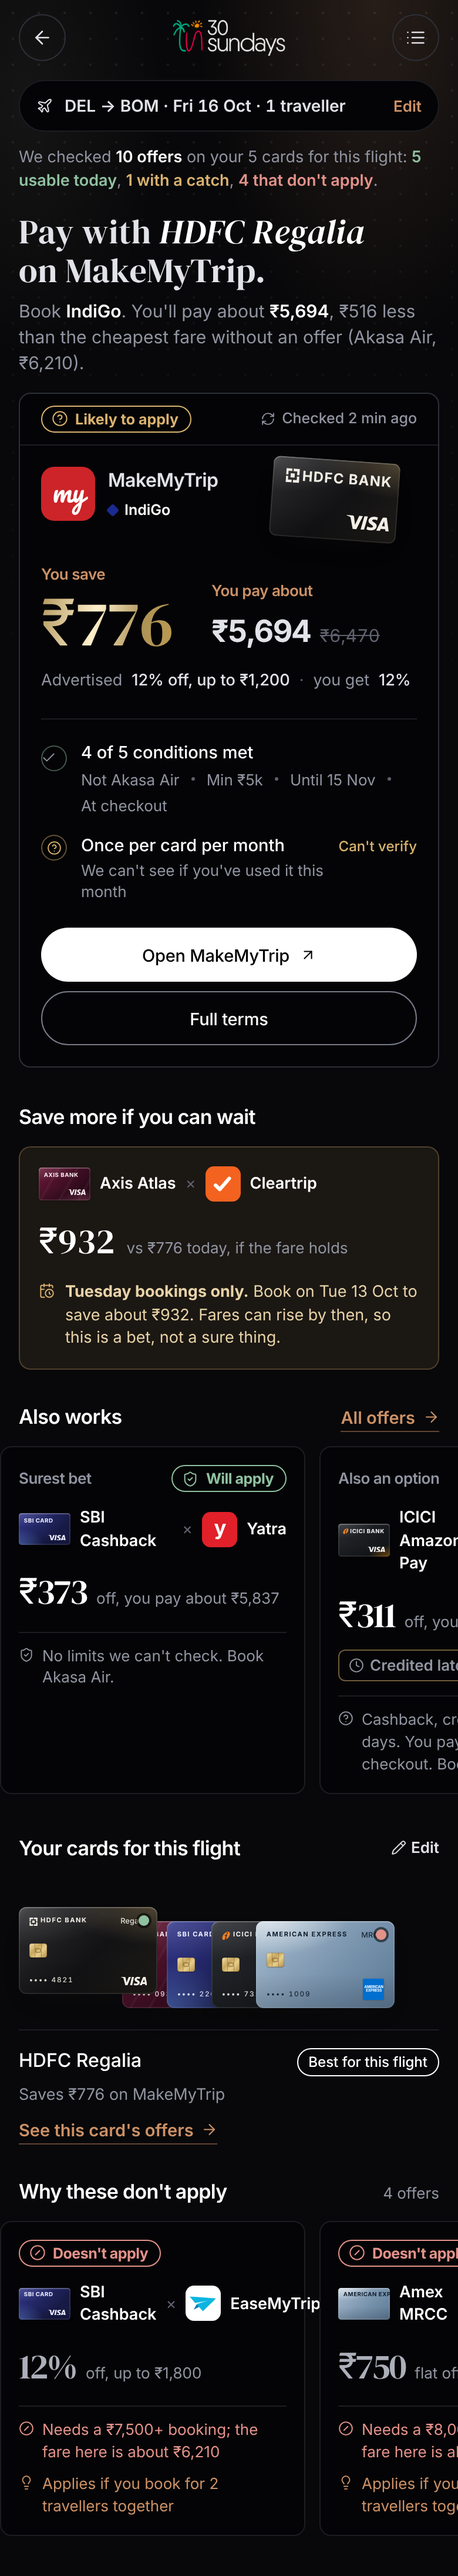
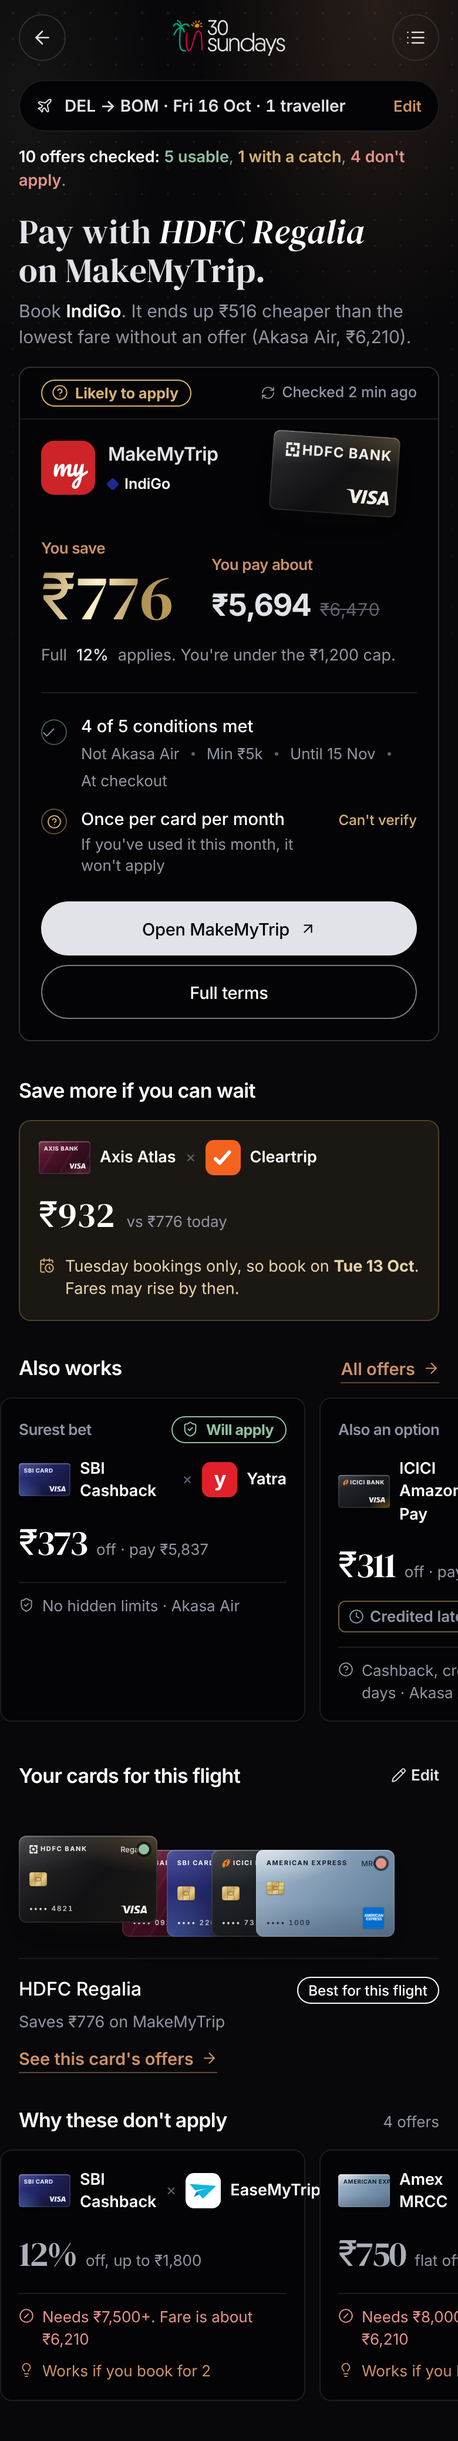
Copy pass: say each fact once
- Results: one-line offer summary; verdict sub no longer repeats the
  price on the card; visual panel drops route and 'pay with' repeats;
  advertised-vs-actual only states what differs (cap or flat)
- Conditions: consequence-first details ('If you've used it this month,
  it won't apply'); shorter blockers ('Needs ₹7,500+. Fare is about ₹6,210')
- Catch, also-works and miss cards trimmed; miss chip hidden when the
  section heading already says it
- No-offer state stated once, with a direct next step
- Landing, ad, route, detail fine print and handoff note tightened

Claude-Session: https://claude.ai/code/session_01FAECn6cwsfefBXgEwP77EW

diff --git a/prototype/cardpick.html b/prototype/cardpick.html
@@ -1186,7 +1186,7 @@ function evaluate(o, r, fares){
   if (o.min) {
     const ok = best && best.saving > 0;
     conds.push({ sh: `Min ${k(o.min)}`, s: ok ? "pass" : "fail", t: `Minimum booking ${inr(o.min)}`, d: ok ? `Your fare is about ${inr(best.fare)}${r.pax > 1 ? ` for ${r.pax}` : ""}` : `Fares on this route are about ${inr(allowed.length ? Math.min(...fares.filter(f => allowed.includes(f.air)).map(f => f.fare)) : cheapest)}` });
-    if (!ok && allowed.length && !o.intl) fails.push(`Needs a ${inr(o.min)}+ booking; the fare here is about ${inr(Math.min(...fares.filter(f => allowed.includes(f.air)).map(f => f.fare)))}`);
+    if (!ok && allowed.length && !o.intl) fails.push(`Needs ${inr(o.min)}+. Fare is about ${inr(Math.min(...fares.filter(f => allowed.includes(f.air)).map(f => f.fare)))}`);
   }
   // booking days
   if (o.bookDays) {
@@ -1200,9 +1200,9 @@ function evaluate(o, r, fares){
   // EMI
   if (o.emi) { conds.push({ s: "choice", t: "Only if you pay in EMI", d: `3+ month EMI. The ${inr(o.emiFee)} fee is already deducted` }); cert *= CERT.emi; }
   // monthly cap
-  if (o.monthly) { conds.push({ s: "unknown", t: "Once per card per month", d: "We can't see if you've used it this month" }); cert *= CERT.monthly; }
+  if (o.monthly) { conds.push({ s: "unknown", t: "Once per card per month", d: "If you've used it this month, it won't apply" }); cert *= CERT.monthly; }
   // new users
-  if (o.newUser) { conds.push({ s: "unknown", t: `First booking on ${OTAS[o.ota].name} only`, d: "Most people with an account won't qualify" }); cert *= CERT.newUser; }
+  if (o.newUser) { conds.push({ s: "unknown", t: `First booking on ${OTAS[o.ota].name} only`, d: "Won't apply if you've booked there before" }); cert *= CERT.newUser; }
   // payout
   if (o.kind === "cashback") { conds.push({ s: "unknown", t: `Cashback, credited in about ${o.creditDays} days`, d: "You pay the full fare at checkout" }); cert *= CERT.cashback; }
   else conds.push({ sh: "At checkout", s: "pass", t: "Discount at checkout", d: o.code ? `Code ${o.code}, usually applied for you` : "Applied when you pay with the card" });
@@ -1215,13 +1215,13 @@ function evaluate(o, r, fares){
   else if (catchDay) status = "catch";
   else if (net >= cheapest - 50) status = "notworth";
   else status = "use";
-  if (status === "notworth") fails.push(`Saves ${inr(saving)}, but only on ${AIRLINES[best.air].name}. You'd still pay more than the cheapest fare (${inr(cheapest)})`);
+  if (status === "notworth") fails.push(`Saves ${inr(saving)} on ${AIRLINES[best.air].name}, but you'd still pay more than the cheapest fare`);
   // unlock hints, so a miss is still useful
   let unlock = null;
   if (status === "blocked" && o.min && !o.intl && allowed.length && topFare && fails.length === 1 && fails[0].startsWith("Needs")) {
     const per = Math.min(...fares.filter(f => allowed.includes(f.air)).map(f => f.fare)) / r.pax;
     const need = Math.ceil(o.min / per);
-    if (need >= 2 && need <= 4 && need !== r.pax) unlock = `Applies if you book for ${need} travellers together`;
+    if (need >= 2 && need <= 4 && need !== r.pax) unlock = `Works if you book for ${need}`;
   }
   if (status === "catch") { unlock = `Book on ${fmtDay(catchDay)} to save about ${inr(saving)}`; fails.push(`${dayRange(o.bookDays)}. Today is ${DAYL[TODAY.getDay()]}`); }
   return { o, status, air: best && best.air, fare: best ? best.fare : cheapest, saving, net, cert, expNet: (best ? best.fare : cheapest) - saving * cert, conds, fails, unlock, catchDay };
@@ -1379,7 +1379,7 @@ SCREENS.ad = {
       <div class="ig-media">
         <div class="ad-copy">
           <h2>5 cards.<br><em>Which one</em> should you actually use?</h2>
-          <p>We check the fine print on your cards for your flight, and tell you what you'll actually save.</p>
+          <p>Tell us your flight. We'll tell you which card saves you the most.</p>
         </div>
         <div class="ad-vis">
           <div class="ad-otas" aria-label="Checks MakeMyTrip, Cleartrip, EaseMyTrip and Yatra">${["mmt","ct","emt","yt"].map(o => otaHTML(o)).join("")}</div>
@@ -1389,7 +1389,7 @@ SCREENS.ad = {
       </div>
       <button class="ig-cta" type="button" data-action="ad-cta">Find my best offer ${icon("arrow-right")}</button>
       <div class="ig-icons">${icon("heart")}${icon("message-circle")}${icon("send")}<span>${icon("bookmark")}</span></div>
-      <p class="ig-cap"><b>30sundays</b> Your cards have flight offers on them. Tell us your route and we'll show what you'll actually save, fine print included.</p>
+      <p class="ig-cap"><b>30sundays</b> Most flight offers sit on cards you already own.</p>
     </article>
   </div>`,
   mount(el){
@@ -1415,9 +1415,8 @@ SCREENS.landing = {
     <nav class="bar">${brand()}<button class="btn ghost sm" type="button" data-action="landing-cta">Check a flight</button></nav>
     <section class="land-hero">
       <div>
-        <div class="label">Your cards. Your flight. One honest answer.</div>
         <h1 style="margin-top:14px">Which card should you pay with for this flight?</h1>
-        <p class="sub">Tell us your route and your cards. We read the fine print and show what you'll actually save, or tell you when nothing applies.</p>
+        <p class="sub">We read every offer's fine print and show what you'll actually save. If nothing applies, we say so.</p>
         <div class="land-cta">
           <button class="btn" type="button" data-action="landing-cta">Check a flight ${icon("arrow-right")}</button>
           <span class="reassure">${icon("shield-check")} No card number. No CVV. No payment information.</span>
@@ -1588,11 +1587,11 @@ SCREENS.route = {
         <button type="button" class="iconbtn" data-action="pax" data-d="-1" aria-label="Fewer travellers">${icon("minus")}</button>
         <b id="paxN" class="num">${r.pax}</b>
         <button type="button" class="iconbtn" data-action="pax" data-d="1" aria-label="More travellers">${icon("plus")}</button>
-        <small>Minimum spends count the whole booking, so this matters.</small>
+        <small>Offer minimums count the whole booking.</small>
       </div>
       <div class="rt-cta">
         <button class="btn block" type="button" data-action="route-go">${state.wallet.length ? `Check my ${state.wallet.length} cards for this flight` : "Next: pick your cards"} ${icon("arrow-right")}</button>
-        ${state.wallet.length ? `<button class="link" type="button" data-action="go-add" style="margin-top:14px">Using your ${state.wallet.length} saved cards. Edit</button>` : ""}
+        ${state.wallet.length ? `<button class="link" type="button" data-action="go-add" style="margin-top:14px">Edit cards</button>` : ""}
       </div>
     </div>`;
   },
@@ -1684,7 +1683,7 @@ SCREENS.home = {
     return `<div class="wrap-wide">
       <nav class="bar"><button class="iconbtn" type="button" data-action="edit-route" aria-label="Change flight">${icon("arrow-left")}</button>${brand()}<button class="iconbtn" type="button" data-action="all-offers" aria-label="All offers">${icon("list")}</button></nav>
       <button type="button" class="route-pill" data-action="edit-route">${icon("plane")}<span>${routeLine(res.r)}</span><b>Edit</b></button>
-      <p class="scan">We checked <b>${n} offer${n === 1 ? "" : "s"}</b> on your ${state.wallet.length} cards for this flight: <span class="s-use">${cnt(["use"])} usable today</span>, <span class="s-catch">${cnt(["catch"])} with a catch</span>, <span class="s-no">${cnt(["blocked","notworth"])} that don't apply</span>.</p>
+      ${res.none ? "" : `<p class="scan"><b>${n} offer${n === 1 ? "" : "s"} checked:</b> <span class="s-use">${cnt(["use"])} usable</span>, <span class="s-catch">${cnt(["catch"])} with a catch</span>, <span class="s-no">${cnt(["blocked","notworth"])} don't apply</span>.</p>`}
       ${res.none ? noneHTML(res) : verdictHTML(res)}
     </div>`;
   },
@@ -1721,7 +1720,7 @@ function recCardHTML(e, res, opts){
         <div class="pay-save"><span class="k">You save</span><span class="big">${inr(e.saving)}</span></div>
         <div class="pay-net"><span class="k">You pay about</span><b>${inr(e.net)}</b><s>${inr(e.fare)}</s></div>
       </div>
-      <p class="adv-line">Advertised <b>${banner(o)}</b><span aria-hidden="true">\u00B7</span>you get <b>${o.kind === "flat" ? inr(e.saving) : pctOf + "%"}</b>${o.kind === "cashback" ? ", paid back later" : ""}</p>
+      <p class="adv-line">${o.kind === "flat" ? `Flat <b>${inr(o.flat)}</b> off` : capped ? `Advertised <b>${o.pct}%</b>, but the ${inr(o.cap)} cap means you get <b>${pctOf}%</b>` : `Full <b>${o.pct}%</b> applies. You're under the ${inr(o.cap)} cap`}${o.kind === "cashback" ? ", paid back later" : ""}.</p>
       ${checksHTML(e)}
       ${opts.noActions ? "" : `<div class="rec-actions">
         <button class="btn" type="button" data-action="use" data-id="${o.id}">Open ${OTAS[o.ota].name} ${icon("arrow-up-right")}</button>
@@ -1730,9 +1729,7 @@ function recCardHTML(e, res, opts){
      </div>
      <aside class="rec-visual" style="--cbg:${C[o.card].bg}" aria-hidden="true">
       <span class="rv-glow"></span><span class="rv-cat">${icon("plane")}</span>
-      <div class="rv-top"><span>${icon("plane-takeoff")} ${routeLabel(res.r)}</span><span>${fmtDay(res.r.date)}</span></div>
       <div class="rv-stage" data-tilt>${cardHTML(o.card)}${otaHTML(o.ota)}</div>
-      <div class="rv-cap"><span>Pay with</span><b>${C[o.card].bank} ${C[o.card].name}</b><span>on ${OTAS[o.ota].name}, booking ${AIRLINES[e.air].name}</span></div>
      </aside>
     </div>
   </article>`;
@@ -1743,7 +1740,7 @@ function verdictHTML(res){
   return `<div class="res-grid">
     <section class="g-main">
       <h1 class="v-h">Pay with <b>${cardFull(o.card)}</b> on ${OTAS[o.ota].name}.</h1>
-      <p class="v-sub">Book <b>${AIRLINES[e.air].name}</b>. You'll pay about <b>${inr(e.net)}</b>, ${inr(vsCheapest)} less than the cheapest fare without an offer (${AIRLINES[res.cheapest.air].name}, ${inr(res.cheapest.fare)}).</p>
+      <p class="v-sub">Book <b>${AIRLINES[e.air].name}</b>. ${res.cheapest.air === e.air ? `It's already the cheapest fare, and this takes ${inr(vsCheapest)} off.` : `It ends up ${inr(vsCheapest)} cheaper than the lowest fare without an offer (${AIRLINES[res.cheapest.air].name}, ${inr(res.cheapest.fare)}).`}</p>
       ${recCardHTML(e, res)}
     </section>
     ${res.catchBest ? catchHTML(res) : ""}
@@ -1759,8 +1756,8 @@ function catchHTML(res){
     <div class="sec-h"><h3>Save more if you can wait</h3></div>
     <button type="button" class="catchc" data-action="open-offer" data-id="${e.o.id}">
       ${pairHTML(e.o)}
-      <span class="catch-v"><b>${inr(e.saving)}</b><span>vs ${inr(res.rec.saving)} today, if the fare holds</span></span>
-      <span class="catch-line">${icon("calendar-clock")}<span><b>${dayRange(e.o.bookDays)}.</b> ${e.unlock}. Fares can rise by then, so this is a bet, not a sure thing.</span></span>
+      <span class="catch-v"><b>${inr(e.saving)}</b><span>vs ${inr(res.rec.saving)} today</span></span>
+      <span class="catch-line">${icon("calendar-clock")}<span>${dayRange(e.o.bookDays)}, so book on <b>${fmtDay(e.catchDay)}</b>. Fares may rise by then.</span></span>
     </button>
   </section>`;
 }
@@ -1774,8 +1771,8 @@ function alsoHTML(res){
       return `<button type="button" class="alt" data-action="open-offer" data-id="${o.id}">
         <span class="alt-k"><span>${role}</span>${certChip(e)}</span>
         ${pairHTML(o)}
-        <span class="alt-v"><b>${inr(e.saving)}</b><span>off, you pay about ${inr(e.net)}</span>${o.kind === "cashback" ? `<span class="chip-later">${icon("clock")} Credited later</span>` : ""}</span>
-        <span class="alt-why">${icon(why ? (why.s === "choice" ? "hand" : "circle-help") : "shield-check")}<span>${why ? `${why.t}. ${why.d}.` : "No limits we can't check."} Book ${AIRLINES[e.air].name}.</span></span>
+        <span class="alt-v"><b>${inr(e.saving)}</b><span>off \u00B7 pay ${inr(e.net)}</span>${o.kind === "cashback" ? `<span class="chip-later">${icon("clock")} Credited later</span>` : ""}</span>
+        <span class="alt-why">${icon(why ? (why.s === "choice" ? "hand" : "circle-help") : "shield-check")}<span>${why ? why.t : "No hidden limits"} \u00B7 ${AIRLINES[e.air].name}</span></span>
       </button>`; }).join(""); })()}</div>
   </section>`;
 }
@@ -1810,7 +1807,7 @@ function missesHTML(res){
   return `<section class="g-miss">
     <div class="sec-h"><h3>Why these don't apply</h3><span class="muted" style="font-size:13px">${res.misses.length} offer${res.misses.length === 1 ? "" : "s"}</span></div>
     <div class="alts miss-alts">${res.misses.map(e => `<button type="button" class="alt alt--miss" data-action="open-offer" data-id="${e.o.id}">
-      <span class="alt-k"><span>${e.status === "catch" ? "Has a catch" : e.status === "notworth" ? "Not worth it" : "Doesn't apply"}</span>${statusChip(e)}</span>
+      ${e.status === "blocked" ? "" : `<span class="alt-k"><span>${e.status === "catch" ? "Has a catch" : "Not worth it"}</span>${statusChip(e)}</span>`}
       ${pairHTML(e.o)}
       <span class="alt-v"><b>${headline(e.o)}</b><span>${e.o.kind === "flat" ? "flat off" : `${e.o.kind === "cashback" ? "cashback" : "off"}, up to ${inr(e.o.cap)}`}</span></span>
       <span class="alt-why">${icon(e.status === "catch" ? "calendar-clock" : e.status === "notworth" ? "scale" : "circle-slash")}<span>${e.fails[0]}</span></span>
@@ -1824,19 +1821,18 @@ function noneHTML(res){
   const n = res.list.length;
   return `<div class="res-grid res-none">
     <section class="g-main none">
-      <span class="none-badge">${icon("circle-slash")} No offer applies</span>
-      <h1 class="v-h">No card offer helps on this flight.</h1>
-      <p class="v-sub">We checked all ${n} offers on your ${state.wallet.length} cards for ${routeLabel(r)} on ${fmtDay(r.date)}. None applies, so you don't need to keep hunting.</p>
+      <h1 class="v-h">None of your cards has an offer for this flight.</h1>
+      <p class="v-sub">We checked all ${n}. You can stop hunting.</p>
       <div class="do-box">
         <div class="label">What we'd do</div>
-        <div class="do-main">${airChip(ch.air)}<b>Book the cheapest fare, about ${inr(ch.fare)}</b></div>
-        <p>Pay with any card. Booking on the airline's own site skips platform convenience fees.</p>
+        <div class="do-main">${airChip(ch.air)}<b>Book ${AIRLINES[ch.air].name} direct, about ${inr(ch.fare)}</b></div>
+        <p>It's the cheapest fare. Any card works, and the airline's site skips platform fees.</p>
         <div class="do-actions">
           <a class="btn" href="${AIRLINES[ch.air].url}" target="_blank" rel="noopener" data-action="airline-out">Open ${AIRLINES[ch.air].name} ${icon("arrow-up-right")}</a>
           <button class="btn ghost" type="button" data-action="alert" aria-pressed="${state.alert}">${icon(state.alert ? "bell-ring" : "bell")} ${state.alert ? "We'll alert you" : "Alert me if an offer appears"}</button>
         </div>
       </div>
-      ${two && two.rec ? `<button type="button" class="tip" data-action="set-pax" data-n="2">${icon("users")}<span><b>Flying with someone?</b> On a booking for 2, ${cardFull(two.rec.o.card)} on ${OTAS[two.rec.o.ota].name} saves about ${inr(two.rec.saving)}. Minimum spends count the whole booking.</span>${icon("arrow-right")}</button>` : ""}
+      ${two && two.rec ? `<button type="button" class="tip" data-action="set-pax" data-n="2">${icon("users")}<span><b>Flying with someone?</b> Book for 2 and ${cardFull(two.rec.o.card)} on ${OTAS[two.rec.o.ota].name} saves about ${inr(two.rec.saving)}.</span>${icon("arrow-right")}</button>` : ""}
       <p class="pos">${icon("info")} We won't suggest getting a new card to save a few hundred rupees on one flight.</p>
     </section>
     ${cardsPanelHTML(res)}
@@ -1955,14 +1951,11 @@ SCREENS.detail = {
       ${e.unlock ? `<p class="miss-fix" style="margin-top:12px">${icon("lightbulb")}${e.unlock}</p>` : ""}
       <details class="cond"><summary>Fine print ${icon("chevron-down")}</summary>
         <ul>
-          <li>Pay the full amount with ${cardFull(o.card)} on ${OTAS[o.ota].name}${o.emi ? " using a 3+ month EMI" : ""}.</li>
-          <li>${o.kind === "flat" ? `Flat ${inr(o.flat)} off` : `${o.pct}% ${o.kind === "cashback" ? "cashback" : "off"}`}, capped at ${inr(maxB(o))} per booking.</li>
-          <li>Minimum booking value ${inr(o.min)}, counted on the total for all travellers.</li>
-          ${o.code ? `<li>Code ${o.code}. Usually applied automatically when you pick the card.</li>` : ""}
-          <li>Valid on bookings made by ${fmtDateLong(o.ends)}.</li>
+          <li>Pay the full amount with ${cardFull(o.card)}${o.emi ? " on a 3+ month EMI" : ""}.</li>
+          ${o.code ? `<li>Code ${o.code}, usually applied for you.</li>` : ""}
+          <li>Prices are estimates from 2 min ago. Sample data for this prototype.</li>
         </ul>
       </details>
-      <p class="lastchk">${icon("refresh-cw")} Last checked 2 min ago. Sample data for this prototype.</p>
       <div style="margin-top:18px">${e.status === "use" ? `<button class="btn block" type="button" data-action="use" data-id="${o.id}">Use this offer ${icon("arrow-up-right")}</button>`
         : e.status === "catch" ? `<button class="btn block" type="button" data-action="remind" data-id="${o.id}">${icon("bell")} Remind me on ${fmtDay(e.catchDay)}</button>`
         : `<button class="btn ghost block" type="button" data-action="back">Back to the recommendation</button>`}</div>
@@ -2007,7 +2000,7 @@ SCREENS.handoff = {
             ${watch.length ? `<div class="watch"><div class="label">Watch out</div>${condsHTML(watch)}</div>` : ""}
           </div>
         </div>
-        <p class="note">${icon("info")} The final price depends on the flight you pick on ${OTAS[o.ota].name}. Fares move, so the saving can too.</p>
+        <p class="note">${icon("info")} Fares move, so your final saving on ${OTAS[o.ota].name} may differ slightly.</p>
         <div class="ho-actions">
           <button class="btn block" type="button" data-action="redirect">Open ${OTAS[o.ota].name} ${icon("arrow-up-right")}</button>
           <button class="btn ghost block" type="button" data-action="copy">${icon("copy")} Copy offer details</button>
